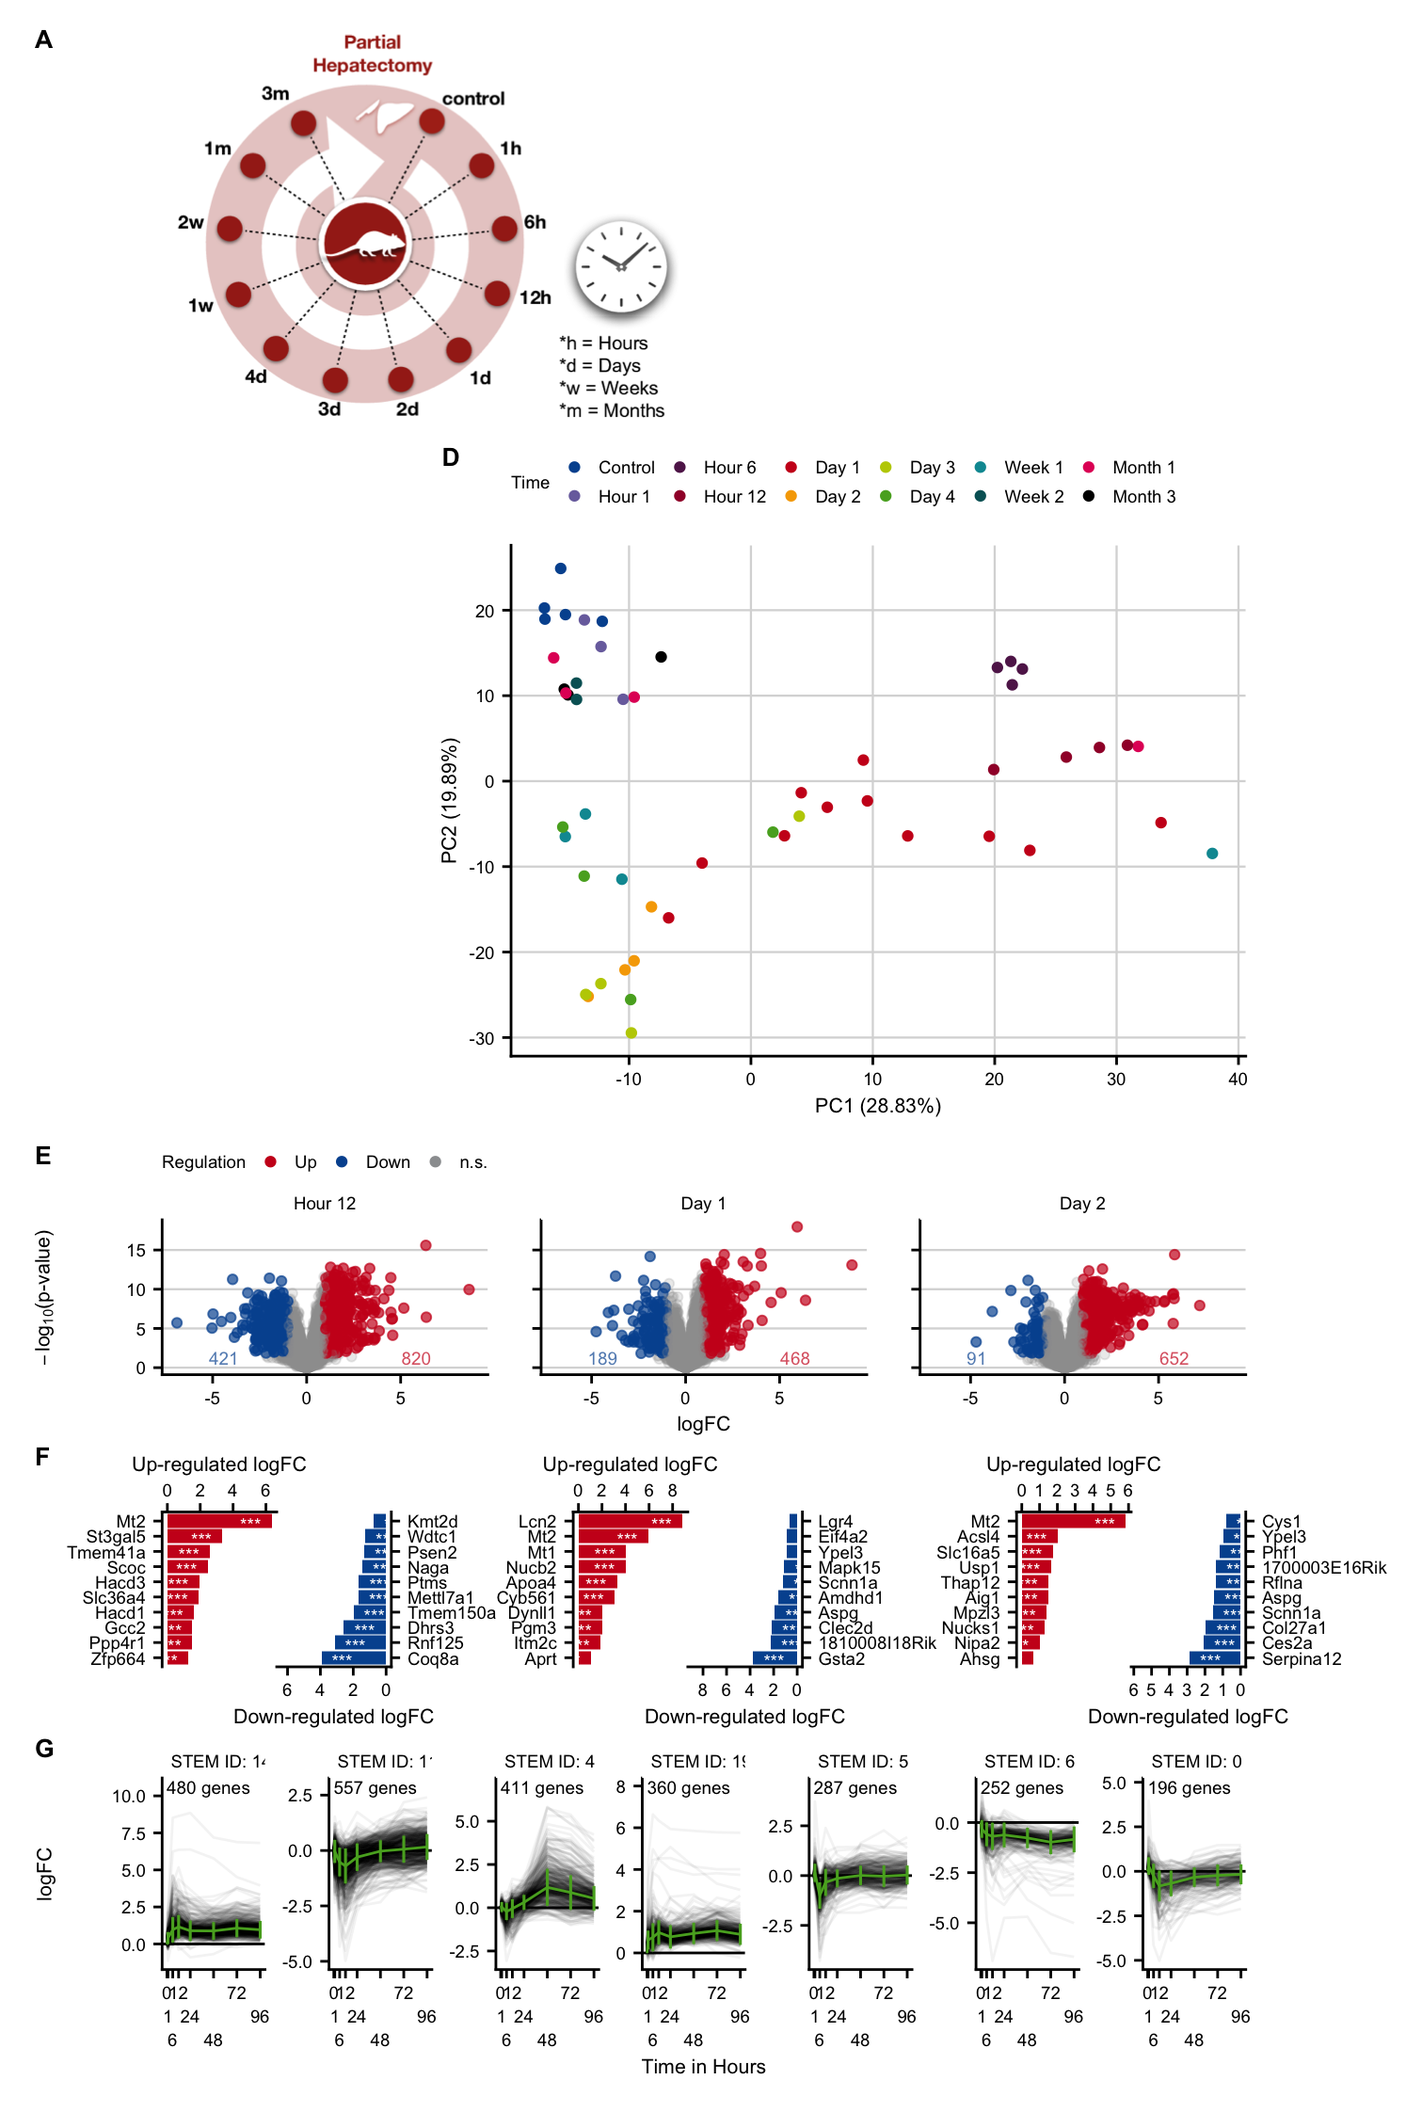
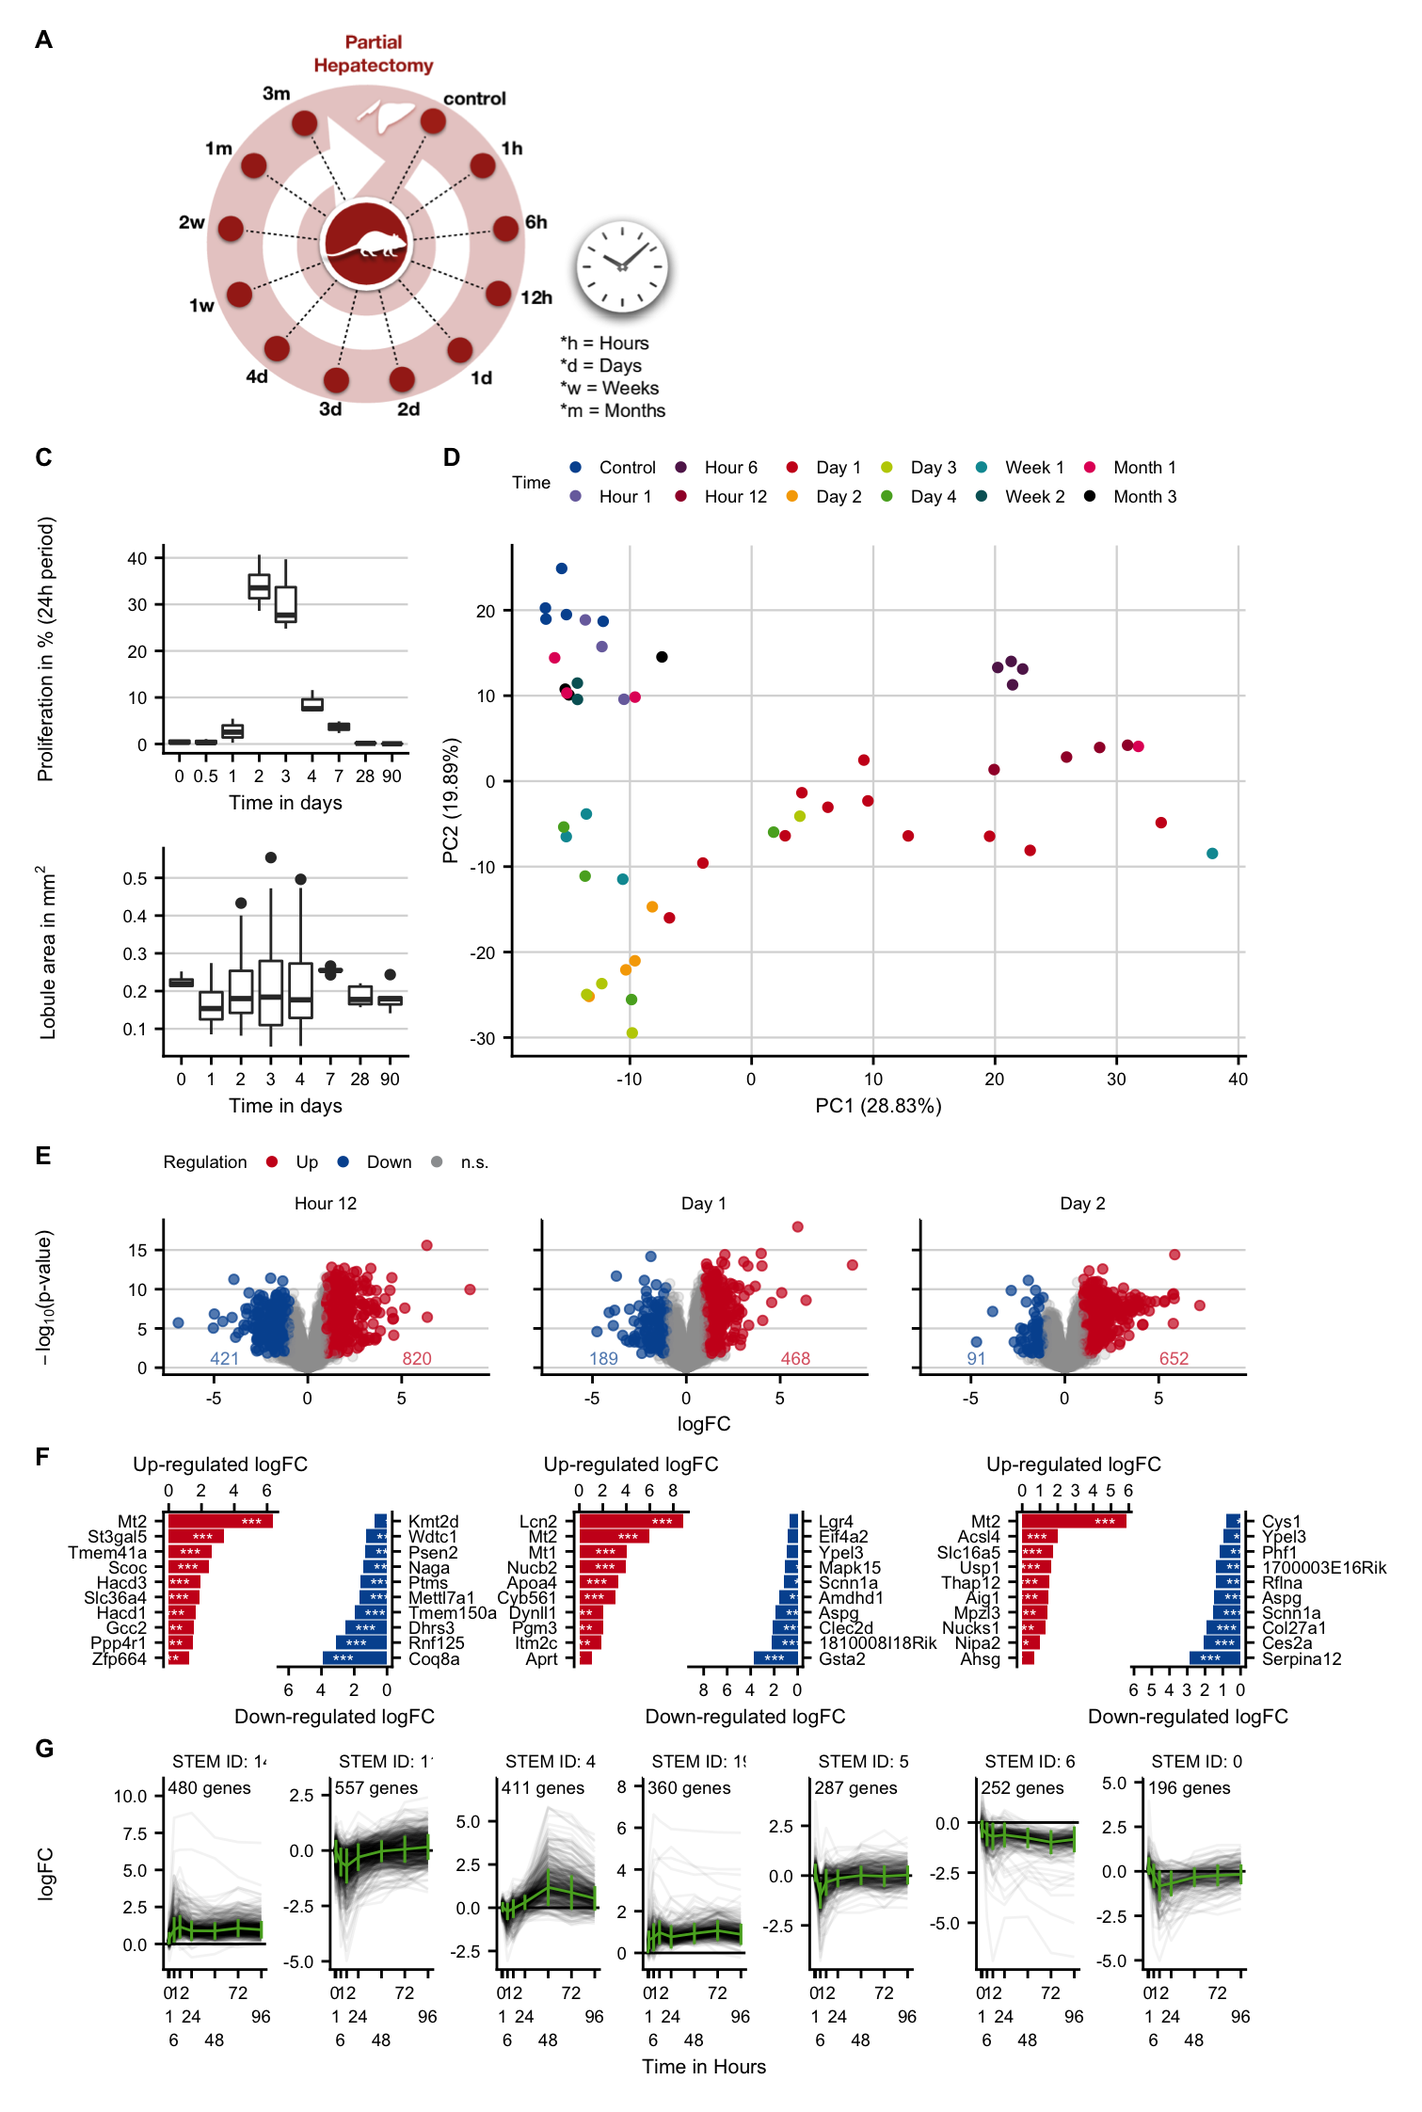
Build site.

diff --git a/docs/plot-acute-ph.html b/docs/plot-acute-ph.html
@@ -544,7 +544,7 @@ div.tocify {
 <div class="tab-content">
 <div id="summary" class="tab-pane fade in active">
 <p>
-<strong>Last updated:</strong> 2021-01-07
+<strong>Last updated:</strong> 2021-02-03
 </p>
 <p>
 <strong>Checks:</strong> <span class="glyphicon glyphicon-ok text-success" aria-hidden="true"></span> 7 <span class="glyphicon glyphicon-exclamation-sign text-danger" aria-hidden="true"></span> 0
@@ -635,16 +635,16 @@ This reproducible <a href="http://rmarkdown.rstudio.com">R Markdown</a> analysis
 <div class="panel panel-default">
 <div class="panel-heading">
 <p class="panel-title">
-<a data-toggle="collapse" data-parent="#workflowr-checks" href="#strongRepositoryversionstrongahrefhttpsgithubcomsaezlabmetalivertree9212828396db6c88e021d10ef9c76bb13828c017targetblank9212828a"> <span class="glyphicon glyphicon-ok text-success" aria-hidden="true"></span> <strong>Repository version:</strong> <a href="https://github.com/saezlab/meta-liver/tree/9212828396db6c88e021d10ef9c76bb13828c017" target="_blank">9212828</a> </a>
+<a data-toggle="collapse" data-parent="#workflowr-checks" href="#strongRepositoryversionstrongahrefhttpsgithubcomsaezlabmetalivertree585991ff4f001ef8586559e12f5e4b611c7498fdtargetblank585991fa"> <span class="glyphicon glyphicon-ok text-success" aria-hidden="true"></span> <strong>Repository version:</strong> <a href="https://github.com/saezlab/meta-liver/tree/585991ff4f001ef8586559e12f5e4b611c7498fd" target="_blank">585991f</a> </a>
 </p>
 </div>
[2 lines of base64/hex data omitted]
 <div class="panel-body">
 <p>
 Great! You are using Git for version control. Tracking code development and connecting the code version to the results is critical for reproducibility.
 </p>
 <p>
-The results in this page were generated with repository version <a href="https://github.com/saezlab/meta-liver/tree/9212828396db6c88e021d10ef9c76bb13828c017" target="_blank">9212828</a>. See the <em>Past versions</em> tab to see a history of the changes made to the R Markdown and HTML files.
+The results in this page were generated with repository version <a href="https://github.com/saezlab/meta-liver/tree/585991ff4f001ef8586559e12f5e4b611c7498fd" target="_blank">585991f</a>. See the <em>Past versions</em> tab to see a history of the changes made to the R Markdown and HTML files.
 </p>
 <p>
 Note that you need to be careful to ensure that all relevant files for the analysis have been committed to Git prior to generating the results (you can use <code>wflow_publish</code> or <code>wflow_git_commit</code>). workflowr only checks the R Markdown file, but you know if there are other scripts or data files that it depends on. Below is the status of the Git repository when the results were generated:
@@ -677,6 +677,7 @@ Ignored files:
     Ignored:    analysis/plot-precision-recall_cache/
     Ignored:    analysis/plot-study-overview_cache/
     Ignored:    analysis/plot-teufel-integration_cache/
+    Ignored:    analysis/save-tables_cache/
     Ignored:    code/.DS_Store
     Ignored:    code/README.html
     Ignored:    code/meta-mouse-vs-human/.DS_Store
@@ -701,6 +702,7 @@ Ignored files:
     Ignored:    external_software/README.html
     Ignored:    external_software/stem/.DS_Store
     Ignored:    figures/
+    Ignored:    geo_submission/
     Ignored:    output/.DS_Store
     Ignored:    output/README.html
     Ignored:    output/human-diehl-nafld/
@@ -720,6 +722,16 @@ Ignored files:
     Ignored:    renv/library/
     Ignored:    renv/staging/
     Ignored:    tables/
+
+Unstaged changes:
+    Modified:   analysis/meta-mouse-vs-human.Rmd
+    Modified:   analysis/mouse-acute-ccl4.Rmd
+    Modified:   analysis/plot-acute-apap.Rmd
+    Modified:   analysis/plot-chronic-ccl4.Rmd
+    Modified:   analysis/plot-chronic-vs-acute.Rmd
+    Modified:   analysis/plot-precision-recall.Rmd
+    Modified:   analysis/plot-study-overview.Rmd
+    Modified:   analysis/save-tables.Rmd
 
 </code></pre>
 <p>
@@ -758,6 +770,40 @@ Message
 </tr>
 </thead>
 <tbody>
+<tr>
+<td>
+Rmd
+</td>
+<td>
+<a href="https://github.com/saezlab/meta-liver/blob/585991ff4f001ef8586559e12f5e4b611c7498fd/analysis/plot-acute-ph.Rmd" target="_blank">585991f</a>
+</td>
+<td>
+christianholland
+</td>
+<td>
+2021-02-03
+</td>
+<td>
+added prolif and lobarea plot
+</td>
+</tr>
+<tr>
+<td>
+html
+</td>
+<td>
+<a href="https://rawcdn.githack.com/saezlab/meta-liver/9c62197c1a318b00f52dbf3e9e3613ebd34b9b33/docs/plot-acute-ph.html" target="_blank">9c62197</a>
+</td>
+<td>
+christianholland
+</td>
+<td>
+2021-01-07
+</td>
+<td>
+Build site.
+</td>
+</tr>
 <tr>
 <td>
 html
@@ -844,6 +890,8 @@ Added plotting scripts for mouse models
 library(tidylog)
 library(here)
 
+library(janitor)
+
 library(AachenColorPalette)
 library(cowplot)
 library(lemon)
@@ -870,9 +918,60 @@ key_mm &lt;- readRDS(here(&quot;data/meta-chronic-vs-acute/contrast_annotation.r
 </div>
 <div id="histology" class="section level2">
 <h2>Histology</h2>
+<div id="proliferation" class="section level3">
+<h3>Proliferation</h3>
+<pre class="r"><code>prolif_df &lt;- read_delim(here(data_path, &quot;prolif.txt&quot;), delim = &quot;\t&quot;) %&gt;%
+  clean_names() %&gt;%
+  rename(y = prolif, time = time_days) %&gt;%
+  mutate(time = ordered(time))
+
+prolif_summary &lt;- prolif_df %&gt;%
+  group_by(time) %&gt;%
+  summarise(mean_se(y)) %&gt;%
+  ungroup()
+
+prolif &lt;- prolif_df %&gt;%
+  ggplot(aes(x = time, y = y)) +
+  geom_boxplot() +
+  # geom_errorbar(aes(ymin = ymin, ymax = ymax), width = 0.5) +
+  # geom_col() +
+  labs(x = &quot;Time in days&quot;, y = &quot;Proliferation in % (24h period)&quot;) +
+  my_theme(grid = &quot;y&quot;, fsize = fz) +
+  stat_compare_means(
+    data = prolif_df, label = &quot;p.signif&quot;,
+    ref.group = &quot;0&quot;, hide.ns = T
+  ) 
+
+prolif</code></pre>
+<p><img src="figure/plot-acute-ph.Rmd/proliferation-1.png" width="672" style="display: block; margin: auto;" /></p>
 </div>
-<div id="liver-enyzmes" class="section level2">
-<h2>Liver enyzmes</h2>
+<div id="lobular-area" class="section level3">
+<h3>Lobular area</h3>
+<pre class="r"><code>lob_df &lt;- read_delim(here(data_path, &quot;lobarea.txt&quot;), delim = &quot;\t&quot;) %&gt;%
+  clean_names() %&gt;%
+  rename(y = lobarea, time = time_days) %&gt;%
+  mutate(time = ordered(time))
+
+lob_summary &lt;- lob_df %&gt;%
+  group_by(time) %&gt;%
+  summarise(mean_se(y)) %&gt;%
+  ungroup()
+
+lob &lt;- lob_df %&gt;%
+  ggplot(aes(x = time, y = y)) +
+  geom_boxplot() +
+  # geom_errorbar(aes(ymin = ymin, ymax = ymax), width = 0.5) +
+  # geom_col() +
+  labs(x = &quot;Time in days&quot;, y = expression(paste(&quot;Lobule area in &quot;, mm^2))) +
+  my_theme(grid = &quot;y&quot;, fsize = fz) +
+  stat_compare_means(
+    data = lob_df, label = &quot;p.signif&quot;,
+    ref.group = &quot;0&quot;, hide.ns = TRUE
+  ) 
+
+lob</code></pre>
+<p><img src="figure/plot-acute-ph.Rmd/lobular-area-1.png" width="672" style="display: block; margin: auto;" /></p>
+</div>
 </div>
 <div id="pca" class="section level2">
 <h2>PCA</h2>
@@ -1281,12 +1380,12 @@ christianholland
 <div id="supplementary-figure-2.4" class="section level3">
 <h3>Supplementary Figure 2.4</h3>
 <pre class="r"><code>sfig2_4 &lt;- (design + plot_spacer()) /
-  ((plot_spacer() | pca_plot) + plot_layout(widths = c(1, 3))) /
+  (((prolif / lob) | pca_plot) + plot_layout(widths = c(1, 3))) /
   ((volcano_main / top_genes_main)) /
   ts_cluster +
   plot_layout(height = c(1.5, 2, 1.75, 0.75)) +
   plot_annotation(tag_levels = list(c(
-    &quot;A&quot;, &quot;D&quot;, &quot;E&quot;, &quot;F&quot;, &quot;&quot;, &quot;&quot;, &quot;&quot;, &quot;&quot;, &quot;&quot;, &quot;G&quot;
+    &quot;A&quot;, &quot;C&quot;, &quot;&quot;,&quot;D&quot;, &quot;E&quot;, &quot;F&quot;, &quot;&quot;, &quot;&quot;, &quot;&quot;, &quot;&quot;, &quot;&quot;, &quot;G&quot;
   ))) &amp;
   theme(
     plot.tag = element_text(size = fz + 3, face = &quot;bold&quot;),
@@ -1397,7 +1496,7 @@ ggsave(here(&quot;figures/Supplementary Figure 2.5.pdf&quot;), sfig2_5,
 ggsave(here(&quot;figures/Supplementary Figure 2.5.png&quot;), sfig2_5,
   width = 21, height = 29.7, units = c(&quot;cm&quot;)
 )</code></pre>
-<p>Time spend to execute this analysis: 01:24 minutes.</p>
+<p>Time spend to execute this analysis: 01:33 minutes.</p>
 <br>
 <p>
 <button type="button" class="btn btn-default btn-workflowr btn-workflowr-sessioninfo" data-toggle="collapse" data-target="#workflowr-sessioninfo" style="display: block;">
@@ -1422,11 +1521,11 @@ ggsave(here(&quot;figures/Supplementary Figure 2.5.png&quot;), sfig2_5,
 #&gt; 
 #&gt; other attached packages:
 #&gt;  [1] patchwork_1.1.1          ggpubr_0.4.0             lemon_0.4.5             
-#&gt;  [4] cowplot_1.1.0            AachenColorPalette_1.1.2 here_1.0.1              
-#&gt;  [7] tidylog_1.0.2            forcats_0.5.0            stringr_1.4.0           
-#&gt; [10] dplyr_1.0.2              purrr_0.3.4              readr_1.4.0             
-#&gt; [13] tidyr_1.1.2              tibble_3.0.4             ggplot2_3.3.2           
-#&gt; [16] tidyverse_1.3.0          workflowr_1.6.2         
+#&gt;  [4] cowplot_1.1.0            AachenColorPalette_1.1.2 janitor_2.0.1           
+#&gt;  [7] here_1.0.1               tidylog_1.0.2            forcats_0.5.0           
+#&gt; [10] stringr_1.4.0            dplyr_1.0.2              purrr_0.3.4             
+#&gt; [13] readr_1.4.0              tidyr_1.1.2              tibble_3.0.4            
+#&gt; [16] ggplot2_3.3.2            tidyverse_1.3.0          workflowr_1.6.2         
 #&gt; 
 #&gt; loaded via a namespace (and not attached):
 #&gt;  [1] fs_1.5.0          lubridate_1.7.9.2 httr_1.4.2        rprojroot_2.0.2  
@@ -1436,18 +1535,19 @@ ggsave(here(&quot;figures/Supplementary Figure 2.5.png&quot;), sfig2_5,
 #&gt; [17] rvest_0.3.6       xml2_1.3.2        labeling_0.4.2    scales_1.1.1     
 #&gt; [21] digest_0.6.27     foreign_0.8-80    rmarkdown_2.6     rio_0.5.16       
 #&gt; [25] pkgconfig_2.0.3   htmltools_0.5.0   dbplyr_2.0.0      rlang_0.4.9      
-#&gt; [29] readxl_1.3.1      rstudioapi_0.13   generics_0.1.0    farver_2.0.3     
+#&gt; [29] readxl_1.3.1      rstudioapi_0.13   farver_2.0.3      generics_0.1.0   
 #&gt; [33] jsonlite_1.7.2    gtools_3.8.2      zip_2.1.1         car_3.0-10       
 #&gt; [37] magrittr_2.0.1    Rcpp_1.0.5        munsell_0.5.0     fansi_0.4.1      
 #&gt; [41] abind_1.4-5       lifecycle_0.2.0   stringi_1.5.3     whisker_0.4      
-#&gt; [45] yaml_2.2.1        carData_3.0-4     plyr_1.8.6        grid_4.0.2       
-#&gt; [49] promises_1.1.1    crayon_1.3.4      lattice_0.20-41   haven_2.3.1      
-#&gt; [53] hms_0.5.3         magick_2.5.2      knitr_1.30        pillar_1.4.7     
-#&gt; [57] ggsignif_0.6.0    codetools_0.2-16  clisymbols_1.2.0  reprex_0.3.0     
-#&gt; [61] glue_1.4.2        evaluate_0.14     data.table_1.13.4 renv_0.12.3      
-#&gt; [65] modelr_0.1.8      vctrs_0.3.6       httpuv_1.5.4      cellranger_1.1.0 
-#&gt; [69] gtable_0.3.0      assertthat_0.2.1  xfun_0.19         openxlsx_4.2.3   
-#&gt; [73] broom_0.7.3       rstatix_0.6.0     later_1.1.0.1     ellipsis_0.3.1</code></pre>
+#&gt; [45] yaml_2.2.1        snakecase_0.11.0  carData_3.0-4     plyr_1.8.6       
+#&gt; [49] grid_4.0.2        promises_1.1.1    crayon_1.3.4      lattice_0.20-41  
+#&gt; [53] haven_2.3.1       hms_0.5.3         magick_2.5.2      knitr_1.30       
+#&gt; [57] pillar_1.4.7      ggsignif_0.6.0    codetools_0.2-16  clisymbols_1.2.0 
+#&gt; [61] reprex_0.3.0      glue_1.4.2        evaluate_0.14     data.table_1.13.4
+#&gt; [65] renv_0.12.3       modelr_0.1.8      vctrs_0.3.6       httpuv_1.5.4     
+#&gt; [69] cellranger_1.1.0  gtable_0.3.0      assertthat_0.2.1  xfun_0.19        
+#&gt; [73] openxlsx_4.2.3    broom_0.7.3       rstatix_0.6.0     later_1.1.0.1    
+#&gt; [77] ellipsis_0.3.1</code></pre>
 </div>
 </div>
 </div>

diff --git a/docs/index.html b/docs/index.html
@@ -456,7 +456,7 @@ $(document).ready(function () {
 <div class="tab-content">
 <div id="summary" class="tab-pane fade in active">
 <p>
-<strong>Last updated:</strong> 2021-01-07
+<strong>Last updated:</strong> 2021-02-03
 </p>
 <p>
 <strong>Checks:</strong> <span class="glyphicon glyphicon-ok text-success" aria-hidden="true"></span> 2 <span class="glyphicon glyphicon-exclamation-sign text-danger" aria-hidden="true"></span> 0
@@ -487,16 +487,16 @@ This reproducible <a href="http://rmarkdown.rstudio.com">R Markdown</a> analysis
 <div class="panel panel-default">
 <div class="panel-heading">
 <p class="panel-title">
-<a data-toggle="collapse" data-parent="#workflowr-checks" href="#strongRepositoryversionstrongahrefhttpsgithubcomsaezlabmetalivertree9212828396db6c88e021d10ef9c76bb13828c017targetblank9212828a"> <span class="glyphicon glyphicon-ok text-success" aria-hidden="true"></span> <strong>Repository version:</strong> <a href="https://github.com/saezlab/meta-liver/tree/9212828396db6c88e021d10ef9c76bb13828c017" target="_blank">9212828</a> </a>
+<a data-toggle="collapse" data-parent="#workflowr-checks" href="#strongRepositoryversionstrongahrefhttpsgithubcomsaezlabmetalivertree585991ff4f001ef8586559e12f5e4b611c7498fdtargetblank585991fa"> <span class="glyphicon glyphicon-ok text-success" aria-hidden="true"></span> <strong>Repository version:</strong> <a href="https://github.com/saezlab/meta-liver/tree/585991ff4f001ef8586559e12f5e4b611c7498fd" target="_blank">585991f</a> </a>
 </p>
 </div>
[2 lines of base64/hex data omitted]
 <div class="panel-body">
 <p>
 Great! You are using Git for version control. Tracking code development and connecting the code version to the results is critical for reproducibility.
 </p>
 <p>
-The results in this page were generated with repository version <a href="https://github.com/saezlab/meta-liver/tree/9212828396db6c88e021d10ef9c76bb13828c017" target="_blank">9212828</a>. See the <em>Past versions</em> tab to see a history of the changes made to the R Markdown and HTML files.
+The results in this page were generated with repository version <a href="https://github.com/saezlab/meta-liver/tree/585991ff4f001ef8586559e12f5e4b611c7498fd" target="_blank">585991f</a>. See the <em>Past versions</em> tab to see a history of the changes made to the R Markdown and HTML files.
 </p>
 <p>
 Note that you need to be careful to ensure that all relevant files for the analysis have been committed to Git prior to generating the results (you can use <code>wflow_publish</code> or <code>wflow_git_commit</code>). workflowr only checks the R Markdown file, but you know if there are other scripts or data files that it depends on. Below is the status of the Git repository when the results were generated:
@@ -530,6 +530,7 @@ Ignored files:
     Ignored:    analysis/plot-precision-recall_cache/
     Ignored:    analysis/plot-study-overview_cache/
     Ignored:    analysis/plot-teufel-integration_cache/
+    Ignored:    analysis/save-tables_cache/
     Ignored:    code/.DS_Store
     Ignored:    code/README.html
     Ignored:    code/meta-mouse-vs-human/.DS_Store
@@ -554,6 +555,7 @@ Ignored files:
     Ignored:    external_software/README.html
     Ignored:    external_software/stem/.DS_Store
     Ignored:    figures/
+    Ignored:    geo_submission/
     Ignored:    output/.DS_Store
     Ignored:    output/README.html
     Ignored:    output/human-diehl-nafld/
@@ -573,6 +575,16 @@ Ignored files:
     Ignored:    renv/library/
     Ignored:    renv/staging/
     Ignored:    tables/
+
+Unstaged changes:
+    Modified:   analysis/meta-mouse-vs-human.Rmd
+    Modified:   analysis/mouse-acute-ccl4.Rmd
+    Modified:   analysis/plot-acute-apap.Rmd
+    Modified:   analysis/plot-chronic-ccl4.Rmd
+    Modified:   analysis/plot-chronic-vs-acute.Rmd
+    Modified:   analysis/plot-precision-recall.Rmd
+    Modified:   analysis/plot-study-overview.Rmd
+    Modified:   analysis/save-tables.Rmd
 
 </code></pre>
 <p>
@@ -611,6 +623,23 @@ Message
 </tr>
 </thead>
 <tbody>
+<tr>
+<td>
+html
+</td>
+<td>
+<a href="https://rawcdn.githack.com/saezlab/meta-liver/9c62197c1a318b00f52dbf3e9e3613ebd34b9b33/docs/index.html" target="_blank">9c62197</a>
+</td>
+<td>
+christianholland
+</td>
+<td>
+2021-01-07
+</td>
+<td>
+Build site.
+</td>
+</tr>
 <tr>
 <td>
 html
